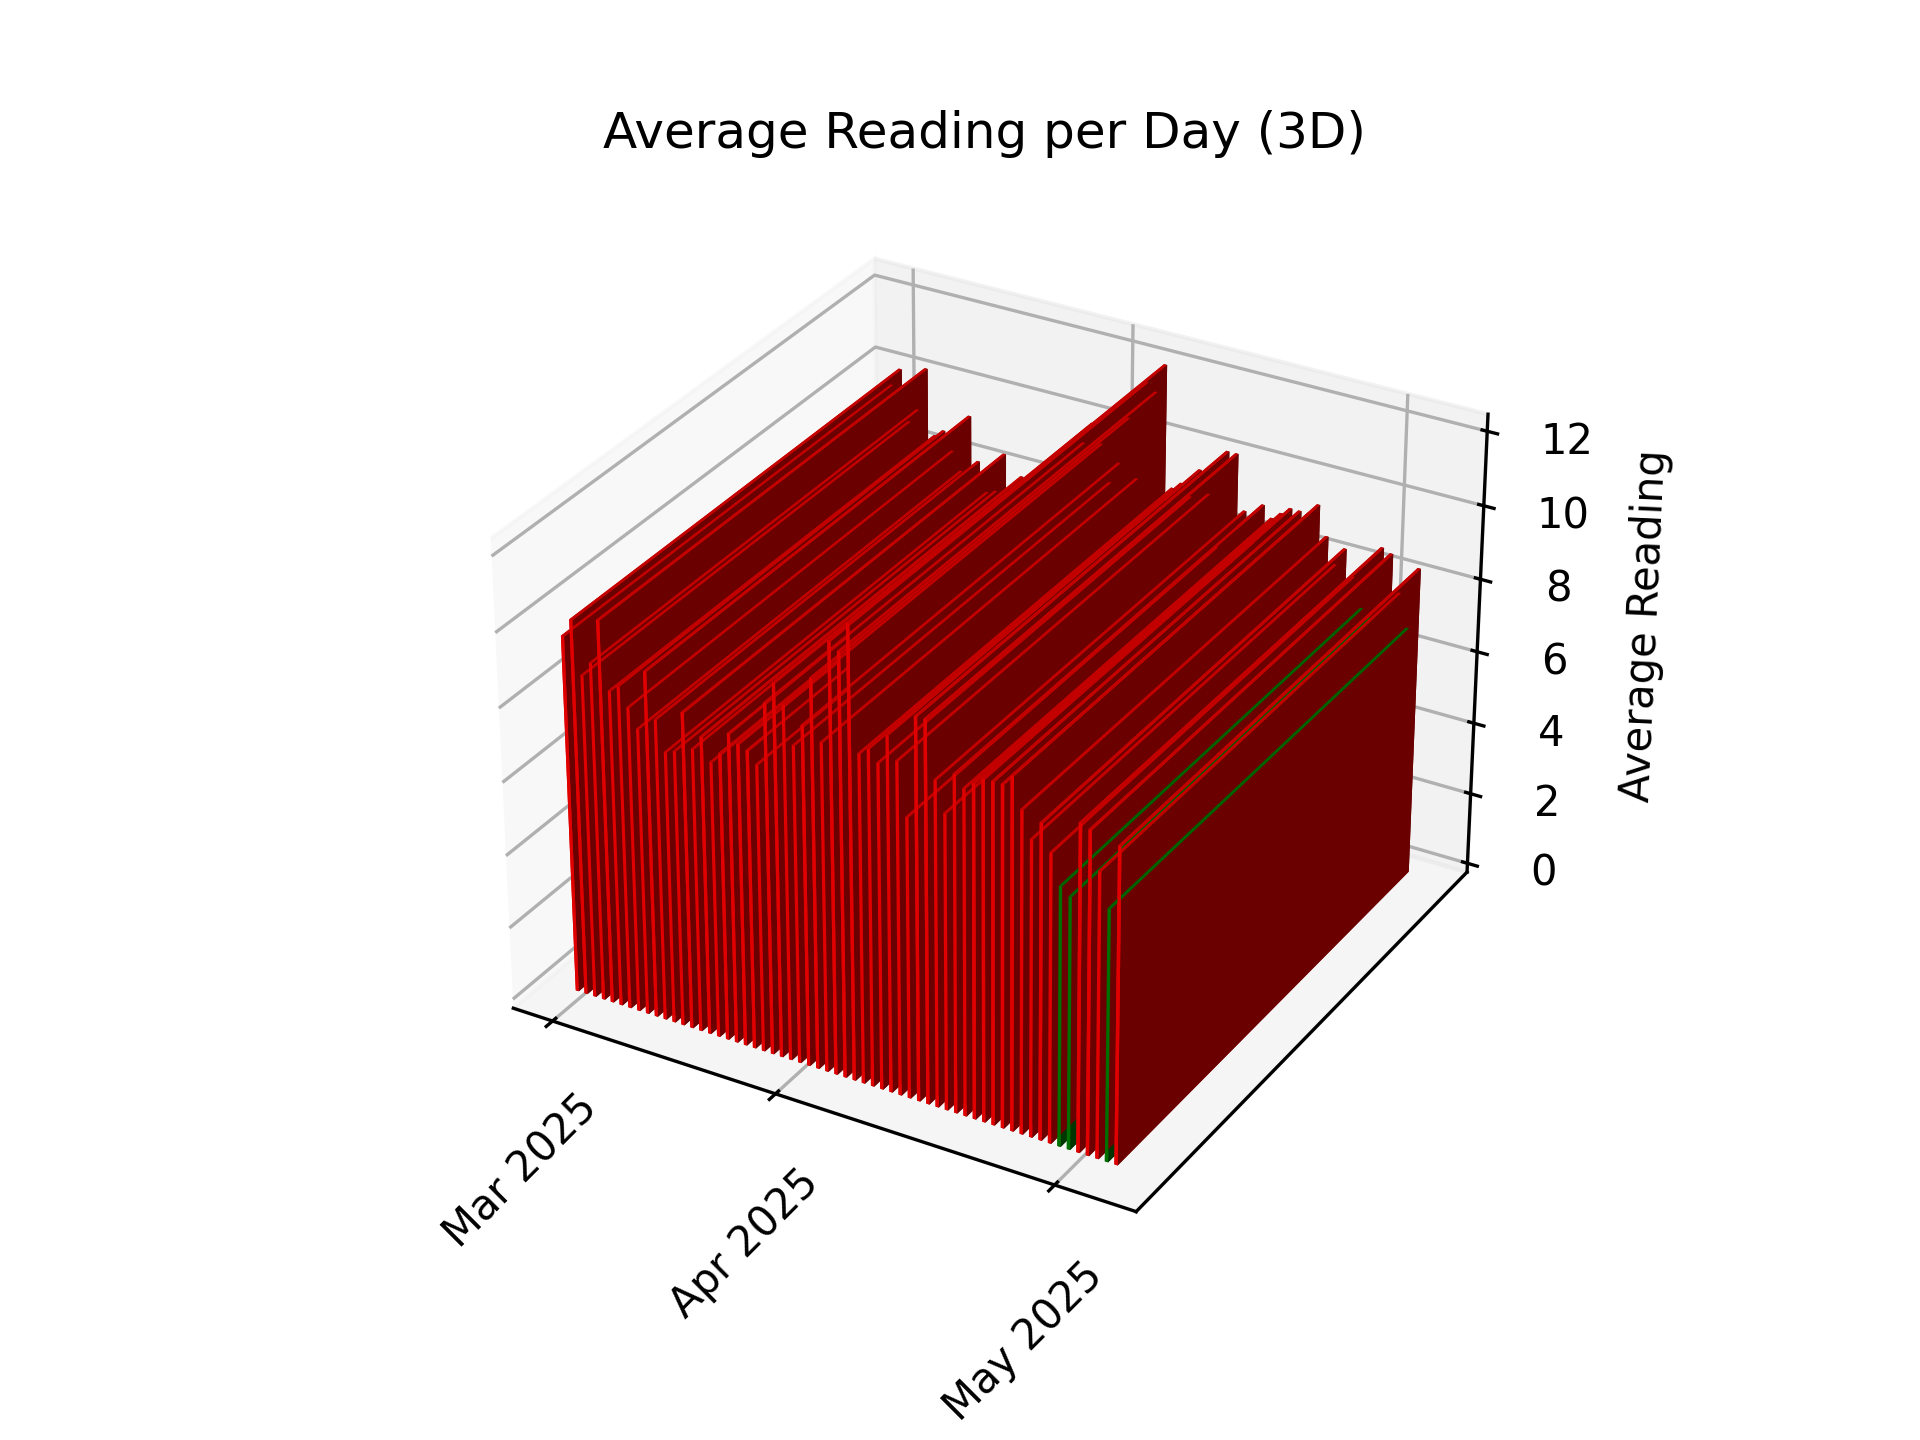
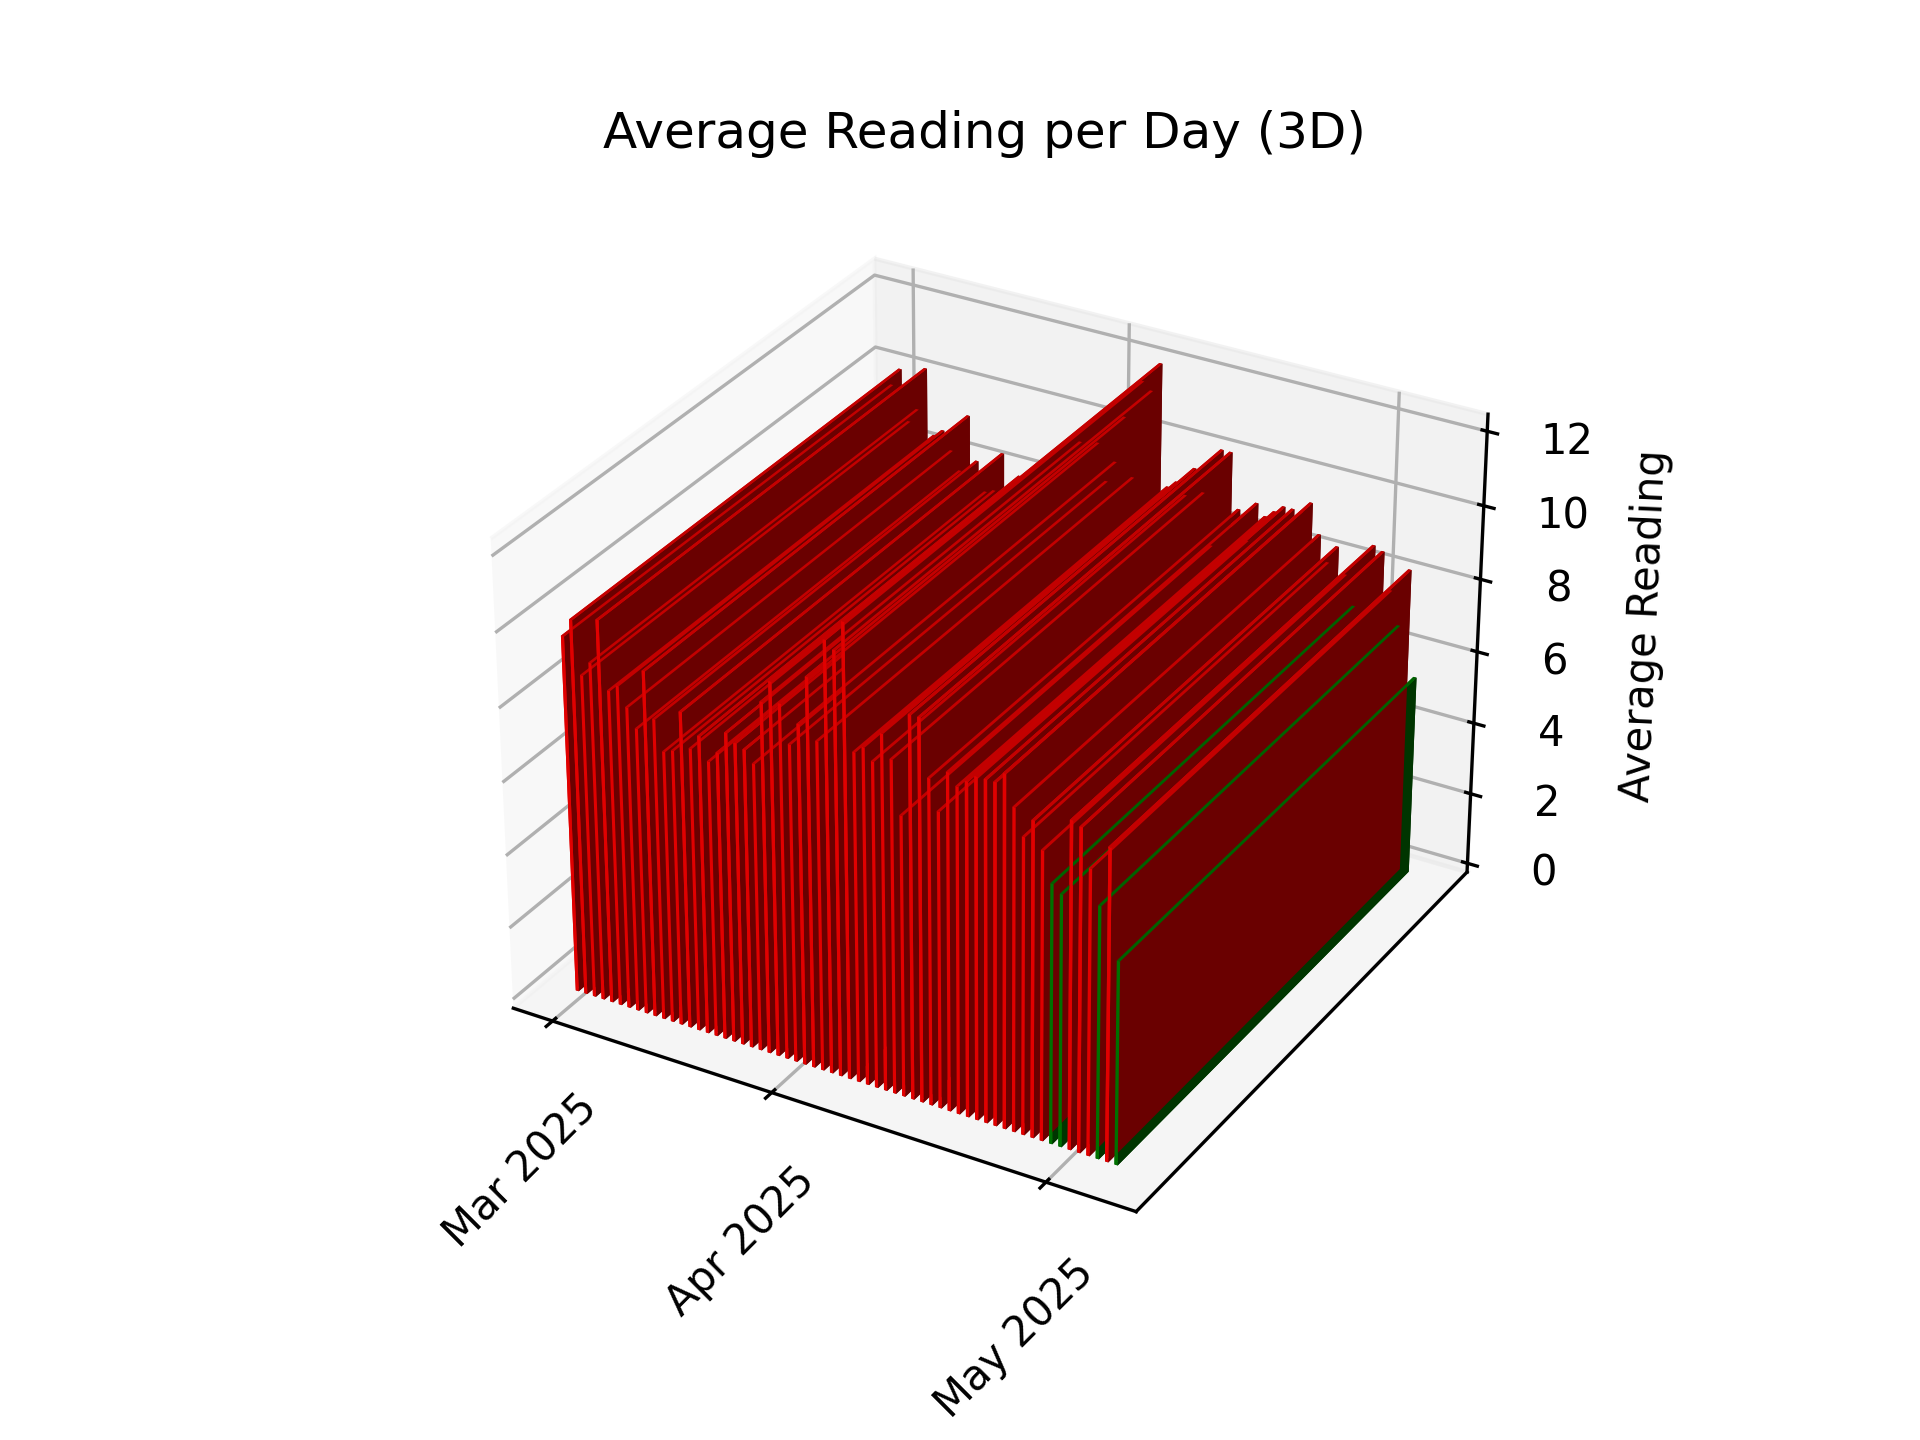
Changed glucose range

diff --git a/Richards_Health.py b/Richards_Health.py
@@ -58,7 +58,7 @@ width = 0.35   # width of each bar
 depth = 0.5    # depth of each bar
 
 # Determine conditional colors for each bar
-colors = ['red' if val > 7 else 'blue' if val < 3 else 'green' for val in Average_Reading_sorted]
+colors = ['red' if val > 10 else 'blue' if val < 3 else 'green' for val in Average_Reading_sorted]
 
 # --------------------------
 # Create a 3D bar chart
